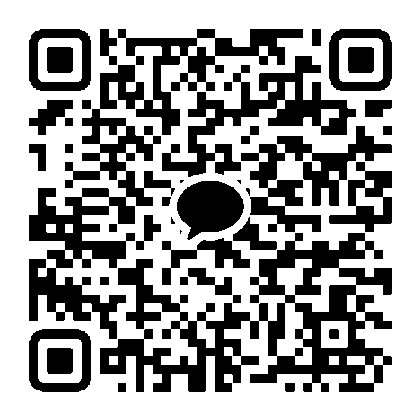
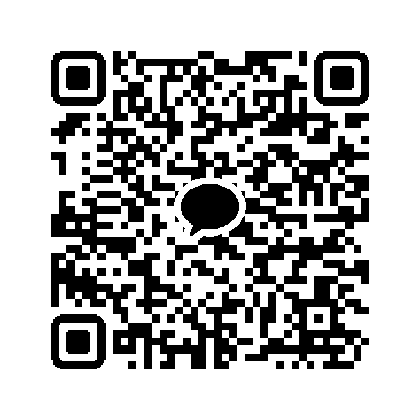
영업부서 4명 실제 QR 반영 + 배치를 한정완 기준으로 통일
QR 가공(권오찬과 동일 파이프라인):
- 원본 1500x1850 카카오 공유카드에서 검은 모듈 경계상자 검출
- 정사각 보정 + 여백(quiet zone) 4모듈분 추가 → 420x420 이진화
- jsQR로 디코드 검증. 4명 모두 서로 다른 링크가 정상 해독됨
  한정완 CME8t6… / 황도영 gC1bqh48… / 황현민 R6EGReJym… / 권오찬 Ibu1yf4v…

배치 통일:
- 황현민(small=사진 옆 축소) · 권오찬(under=사진 아래) · 황도영(cta=버튼 펼침)의
  data-qrmode 를 제거해 한정완과 같은 기본 배치(패널 우측 하단)로 맞춤
- 실측: 4명 모두 우측여백 24px / 하단여백 26px / 폭 120px 동일

Supabase team_members 의 qr·kakao·qrmode 도 같은 값으로 갱신
(어드민이 사이트를 덮어쓸 때 어긋나지 않도록)

이혜빈·김미정은 QR 미제공이라 제외.

diff --git a/index.html b/index.html
@@ -1240,10 +1240,10 @@
     <div class="team-group">
       <h3>영업부서</h3>
       <div class="team-grid">
-        <div class="member" data-name="한정완" data-role="영업부서 · 팀장" data-photo="assets/team/한정완.webp" data-qr="assets/team/qr/권오찬_qr.png" data-kakao="http://qr.kakao.com/talk/Ibu1yf4v_U.UYIFQSlZGNi2nYzk-" data-bio="고객이 만족하는 광고가 아닌, 고객의 성장을 만들어내는 광고를 하겠습니다. 과정은 치열하게, 결과는 확실하게 만들어내겠습니다. 트렌드를 따라가는 사람이 아닌, 트렌드를 먼저 읽는 사람이 되겠습니다. 끊임없는 연구와 실행으로 누구에게나 인정받는 광고 전문가가 되겠습니다."><img src="assets/team/한정완.webp" alt="한정완" loading="lazy" onerror="this.onerror=null;this.src='https://placehold.co/300x400/dddddd/999999?text=한정완'"><div class="m-cap"><div class="m-nm">한정완</div><div class="m-role">팀장</div></div></div>
-        <div class="member" data-name="황현민" data-role="영업부서 · 매니저" data-photo="assets/team/황현민.webp" data-qrmode="small" data-qr="assets/team/qr/권오찬_qr.png" data-kakao="http://qr.kakao.com/talk/Ibu1yf4v_U.UYIFQSlZGNi2nYzk-" data-bio="끊임없이 배우고 변화하며, 고객의 성장을 만들어내는 광고 전문가가 되겠습니다. 작은 차이가 큰 결과를 만든다는 마음으로 끝까지 고민하고 실행하겠습니다. 단순히 광고를 만드는 사람이 아닌, 결과로 증명하는 마케터가 되겠습니다. 새로운 트렌드와 데이터를 끊임없이 연구하며 고객에게 확실한 성과를 만들어내겠습니다."><img src="assets/team/황현민.webp" alt="황현민" loading="lazy" onerror="this.onerror=null;this.src='https://placehold.co/300x400/dddddd/999999?text=황현민'"><div class="m-cap"><div class="m-nm">황현민</div><div class="m-role">매니저</div></div></div>
-        <div class="member" data-name="권오찬" data-role="영업부서 · 매니저" data-photo="assets/team/권오찬.webp" data-qrmode="under" data-qr="assets/team/qr/권오찬_qr.png" data-kakao="http://qr.kakao.com/talk/Ibu1yf4v_U.UYIFQSlZGNi2nYzk-" data-bio="광고를 집행하는 사람이 아니라, 고객의 매출을 함께 고민하는 사람이 되겠습니다. 숫자 너머의 이유까지 찾아내, 지금 필요한 다음 한 걸음을 정확히 제안하겠습니다. 한 번의 성과에 그치지 않고, 꾸준히 이어지는 성장을 만들어내겠습니다. 믿고 맡겨주신 만큼, 기대 이상의 결과로 보답하는 담당자가 되겠습니다."><img src="assets/team/권오찬.webp" alt="권오찬" loading="lazy" onerror="this.onerror=null;this.src='https://placehold.co/300x400/dddddd/999999?text=권오찬'"><div class="m-cap"><div class="m-nm">권오찬</div><div class="m-role">매니저</div></div></div>
-        <div class="member" data-name="황도영" data-role="영업부서 · 매니저" data-photo="assets/team/황도영.webp" data-qrmode="cta" data-qr="assets/team/qr/권오찬_qr.png" data-kakao="http://qr.kakao.com/talk/Ibu1yf4v_U.UYIFQSlZGNi2nYzk-" data-bio="광고비를 쓰게 만드는 사람이 아니라, 광고비가 아깝지 않게 만드는 사람이 되겠습니다.&#10;&#10;남들이 하니까 하는 광고, 많이 보여주면 된다는 식의 광고는 하지 않겠습니다.&#10;&#10;데이터를 보고 기회를 찾고, 경쟁을 분석하고, 고객이 움직이는 지점을 찾아 결과가 만들어지는 곳에 정확하게 집중하겠습니다.&#10;&#10;광고주가 원하는 것만 실행하는 사람보다 광고주가 미처 생각하지 못한 것까지 먼저 제안하는 사람.&#10;&#10;실패를 두려워해 안전한 방법만 찾기보다 끊임없이 테스트하고, 빠르게 실행하고, 결과로 증명하겠습니다.&#10;&#10;광고는 비용이 아니라 성장의 무기가 되어야 합니다. 그 무기를 가장 잘 다루는 광고 전문가가 되겠습니다."><img src="assets/team/황도영.webp" alt="황도영" loading="lazy" onerror="this.onerror=null;this.src='https://placehold.co/300x400/dddddd/999999?text=황도영'"><div class="m-cap"><div class="m-nm">황도영</div><div class="m-role">매니저</div></div></div>
+        <div class="member" data-name="한정완" data-role="영업부서 · 팀장" data-photo="assets/team/한정완.webp" data-qr="assets/team/qr/한정완_qr.png" data-kakao="http://qr.kakao.com/talk/CME8t6.HGBu8g2R2BqLhs18SZYo-" data-bio="고객이 만족하는 광고가 아닌, 고객의 성장을 만들어내는 광고를 하겠습니다. 과정은 치열하게, 결과는 확실하게 만들어내겠습니다. 트렌드를 따라가는 사람이 아닌, 트렌드를 먼저 읽는 사람이 되겠습니다. 끊임없는 연구와 실행으로 누구에게나 인정받는 광고 전문가가 되겠습니다."><img src="assets/team/한정완.webp" alt="한정완" loading="lazy" onerror="this.onerror=null;this.src='https://placehold.co/300x400/dddddd/999999?text=한정완'"><div class="m-cap"><div class="m-nm">한정완</div><div class="m-role">팀장</div></div></div>
+        <div class="member" data-name="황현민" data-role="영업부서 · 매니저" data-photo="assets/team/황현민.webp" data-qr="assets/team/qr/황현민_qr.png" data-kakao="http://qr.kakao.com/talk/R6EGReJym.LcjcQ_kWV4zwe5UbU-" data-bio="끊임없이 배우고 변화하며, 고객의 성장을 만들어내는 광고 전문가가 되겠습니다. 작은 차이가 큰 결과를 만든다는 마음으로 끝까지 고민하고 실행하겠습니다. 단순히 광고를 만드는 사람이 아닌, 결과로 증명하는 마케터가 되겠습니다. 새로운 트렌드와 데이터를 끊임없이 연구하며 고객에게 확실한 성과를 만들어내겠습니다."><img src="assets/team/황현민.webp" alt="황현민" loading="lazy" onerror="this.onerror=null;this.src='https://placehold.co/300x400/dddddd/999999?text=황현민'"><div class="m-cap"><div class="m-nm">황현민</div><div class="m-role">매니저</div></div></div>
+        <div class="member" data-name="권오찬" data-role="영업부서 · 매니저" data-photo="assets/team/권오찬.webp" data-qr="assets/team/qr/권오찬_qr.png" data-kakao="http://qr.kakao.com/talk/Ibu1yf4v_U.UYIFQSlZGNi2nYzk-" data-bio="광고를 집행하는 사람이 아니라, 고객의 매출을 함께 고민하는 사람이 되겠습니다. 숫자 너머의 이유까지 찾아내, 지금 필요한 다음 한 걸음을 정확히 제안하겠습니다. 한 번의 성과에 그치지 않고, 꾸준히 이어지는 성장을 만들어내겠습니다. 믿고 맡겨주신 만큼, 기대 이상의 결과로 보답하는 담당자가 되겠습니다."><img src="assets/team/권오찬.webp" alt="권오찬" loading="lazy" onerror="this.onerror=null;this.src='https://placehold.co/300x400/dddddd/999999?text=권오찬'"><div class="m-cap"><div class="m-nm">권오찬</div><div class="m-role">매니저</div></div></div>
+        <div class="member" data-name="황도영" data-role="영업부서 · 매니저" data-photo="assets/team/황도영.webp" data-qr="assets/team/qr/황도영_qr.png" data-kakao="http://qr.kakao.com/talk/gC1bqh48Qq1sh74qz8MY2eKSZl0-" data-bio="광고비를 쓰게 만드는 사람이 아니라, 광고비가 아깝지 않게 만드는 사람이 되겠습니다.&#10;&#10;남들이 하니까 하는 광고, 많이 보여주면 된다는 식의 광고는 하지 않겠습니다.&#10;&#10;데이터를 보고 기회를 찾고, 경쟁을 분석하고, 고객이 움직이는 지점을 찾아 결과가 만들어지는 곳에 정확하게 집중하겠습니다.&#10;&#10;광고주가 원하는 것만 실행하는 사람보다 광고주가 미처 생각하지 못한 것까지 먼저 제안하는 사람.&#10;&#10;실패를 두려워해 안전한 방법만 찾기보다 끊임없이 테스트하고, 빠르게 실행하고, 결과로 증명하겠습니다.&#10;&#10;광고는 비용이 아니라 성장의 무기가 되어야 합니다. 그 무기를 가장 잘 다루는 광고 전문가가 되겠습니다."><img src="assets/team/황도영.webp" alt="황도영" loading="lazy" onerror="this.onerror=null;this.src='https://placehold.co/300x400/dddddd/999999?text=황도영'"><div class="m-cap"><div class="m-nm">황도영</div><div class="m-role">매니저</div></div></div>
         <div class="member" data-name="이혜빈" data-role="영업부서 · 매니저" data-photo="assets/team/이혜빈.webp" data-bio="“광고주의 요청을 실행하는 것보다, 광고주에게 필요한 것을 먼저 고민합니다.”&#10;&#10;다년간 축적한 데이터와 다양한 마케팅 경험을 바탕으로 업종·상권·제품·고객을 분석하고, 업체마다 가장 효율적인 광고 방향을 설계합니다. 무조건 많은 광고를 권하지 않습니다. 필요한 광고를 선별하고, 더 나은 방법이 있다면 먼저 제안합니다. 결국 좋은 광고는 많이 보여주는 것이 아니라, 제대로 선택받게 만드는 것이라고 생각합니다."><img src="assets/team/이혜빈.webp" alt="이혜빈" loading="lazy" onerror="this.onerror=null;this.src='https://placehold.co/300x400/dddddd/999999?text=이혜빈'"><div class="m-cap"><div class="m-nm">이혜빈</div><div class="m-role">매니저</div></div></div>
         <div class="member" data-name="김미정" data-role="영업부서 · 매니저" data-photo="assets/team/김미정.webp" data-bio="보여주기식 광고가 아니라, 실제로 문의가 늘어나는 광고를 만들겠습니다. 고객의 이야기를 먼저 듣고, 그 안에서 답을 찾아 실행하겠습니다. 작은 변화도 놓치지 않고 점검하며, 더 나은 방향으로 계속 다듬겠습니다. 맡겨주신 브랜드가 한 단계 더 성장하도록 끝까지 함께하겠습니다."><img src="assets/team/김미정.webp" alt="김미정" loading="lazy" onerror="this.onerror=null;this.src='https://placehold.co/300x400/dddddd/999999?text=김미정'"><div class="m-cap"><div class="m-nm">김미정</div><div class="m-role">매니저</div></div></div>      </div>
     </div>
